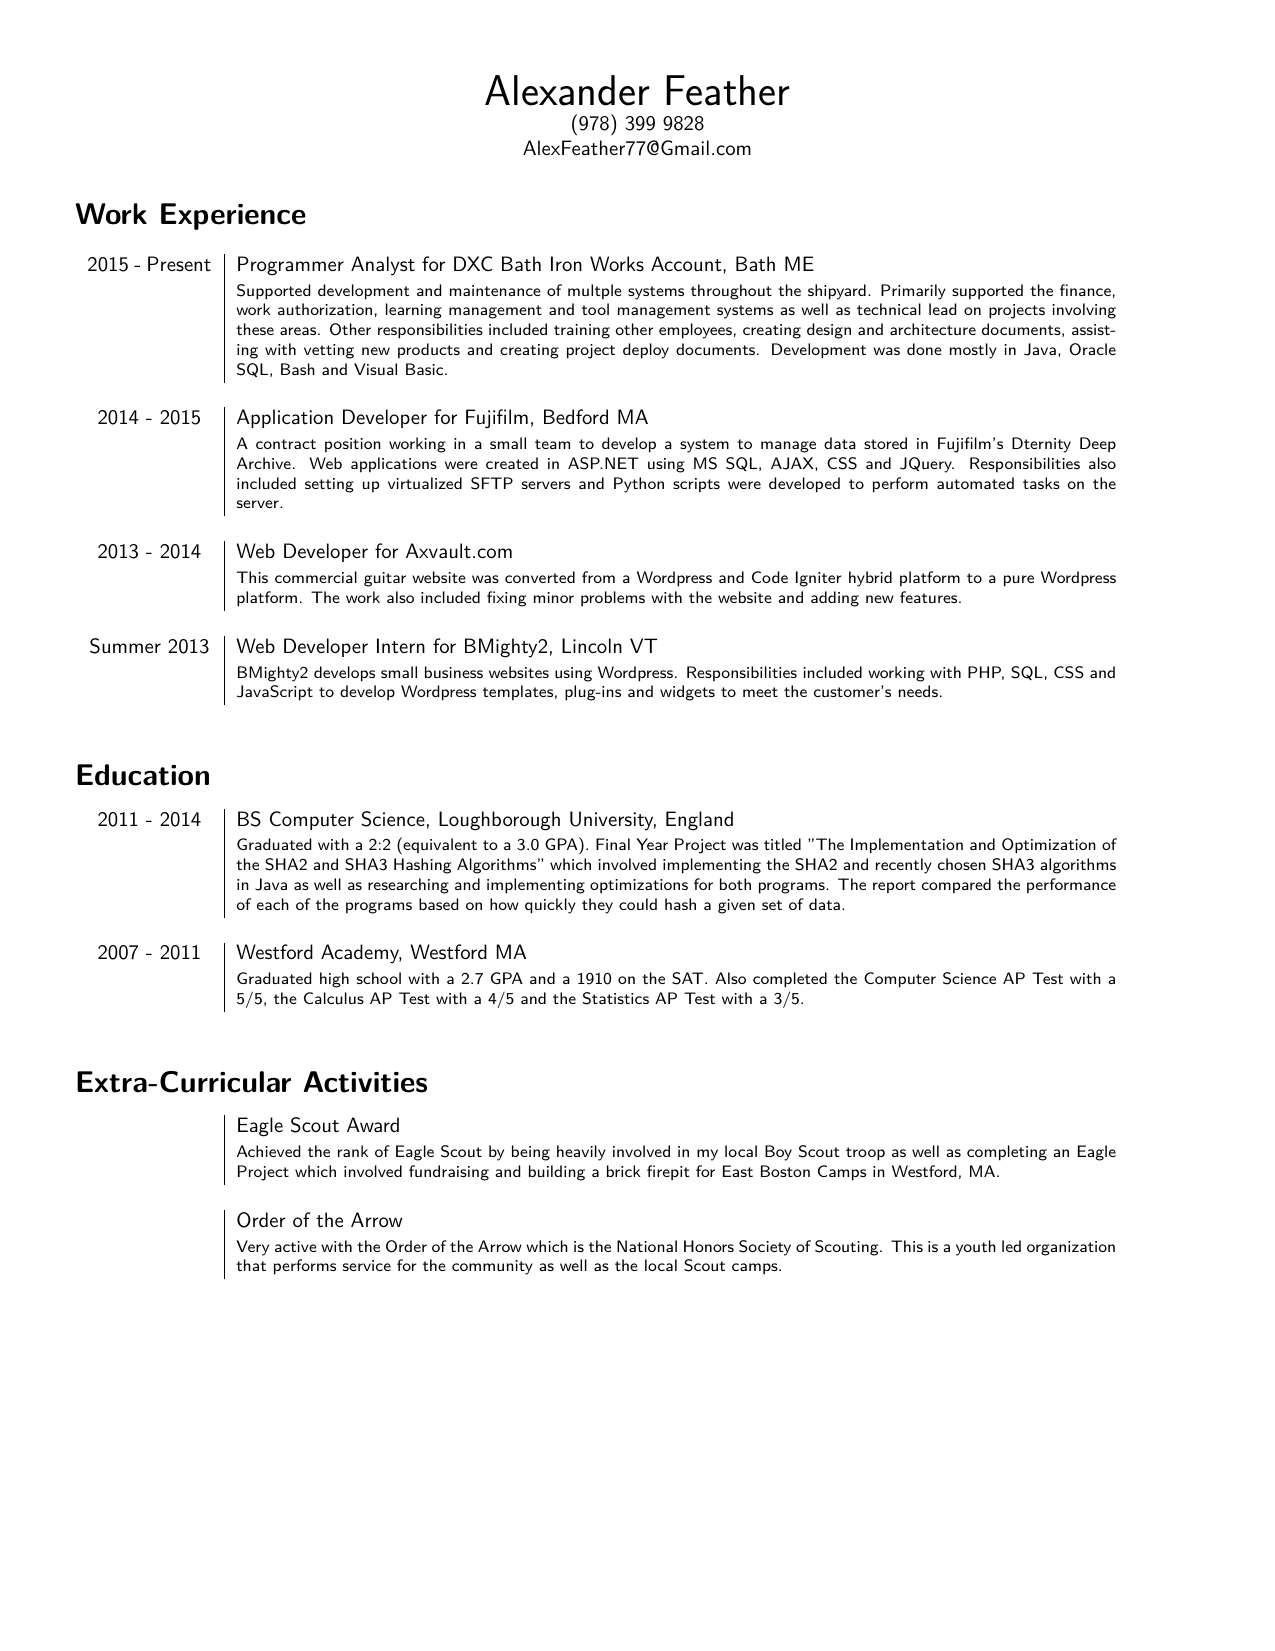
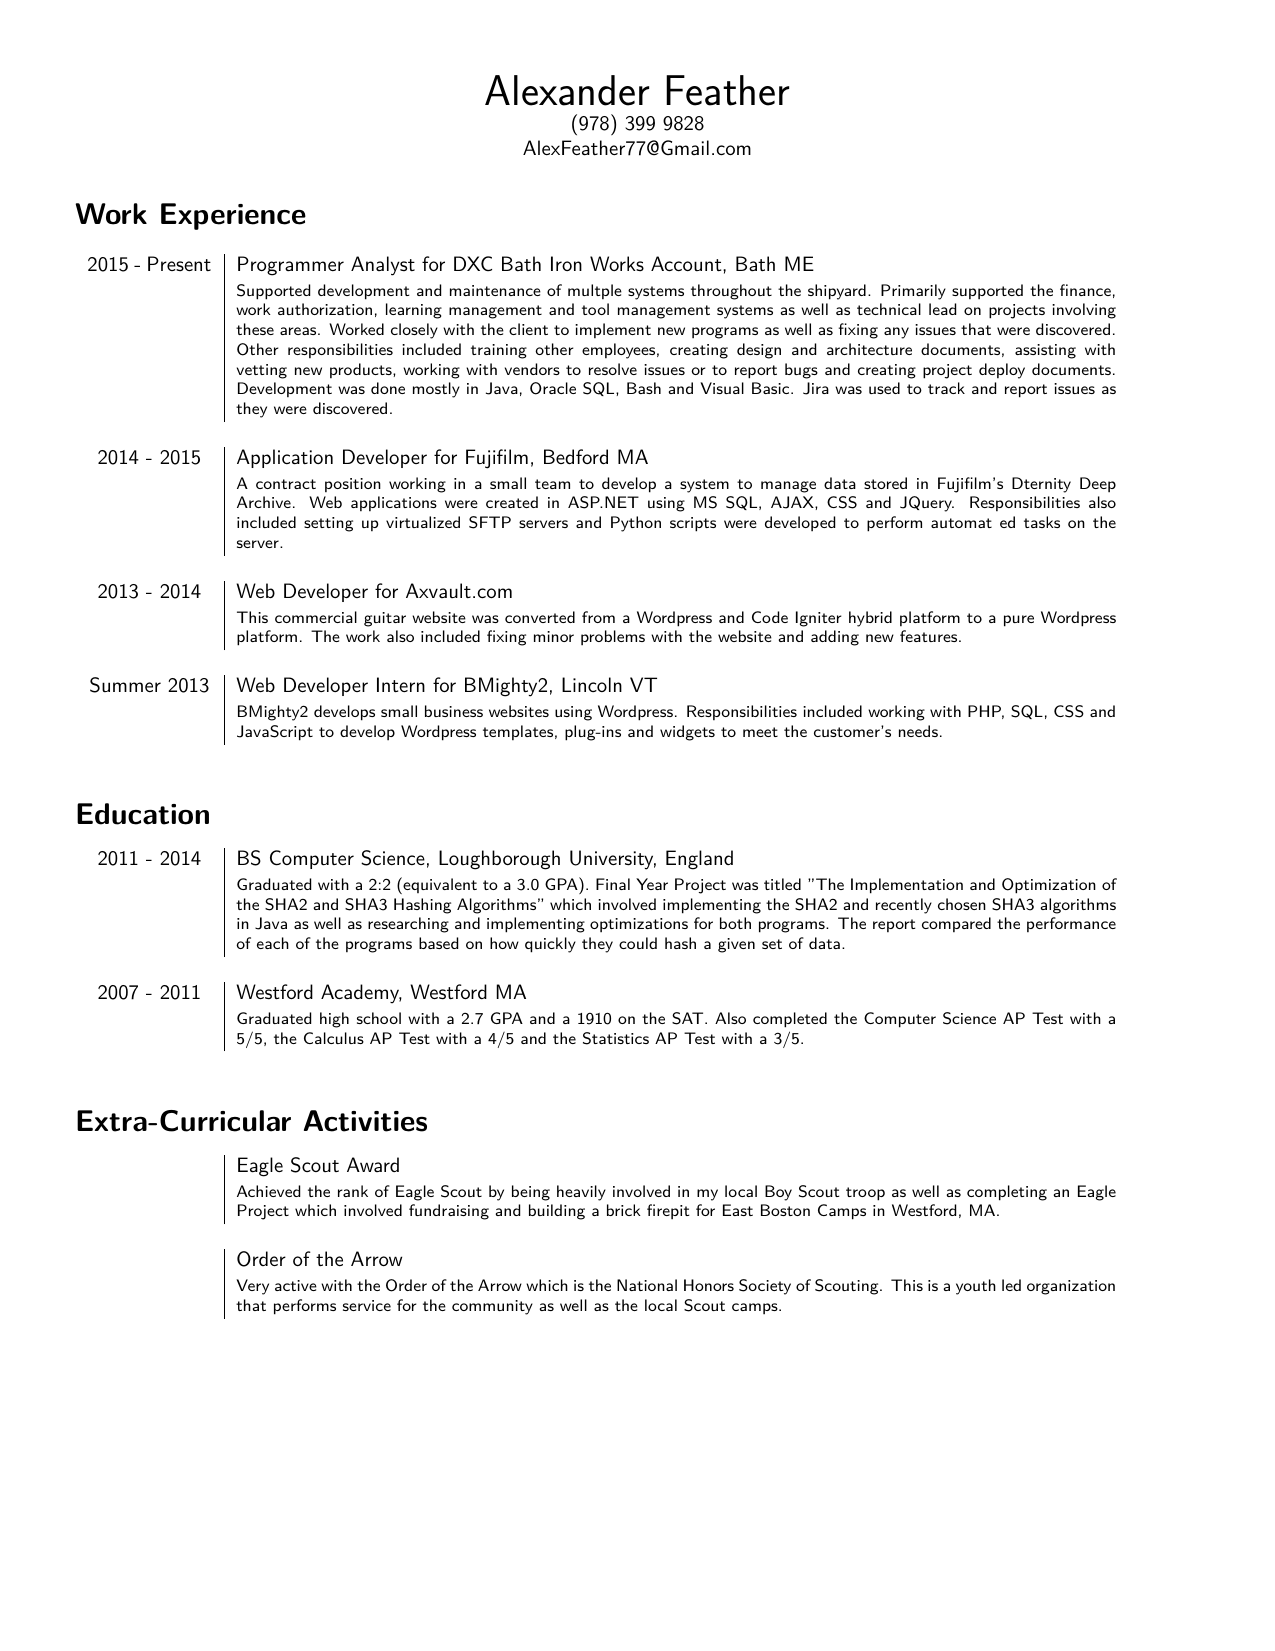
Updated Resume Files

diff --git a/Resume.tex b/Resume.tex
@@ -12,8 +12,8 @@
 
 \section*{\fontfamily{lmss}\selectfont Work Experience}
 \begin{tabular}{p{2.1cm}|p{14.9cm}}
-	2015 - Present & Programmer Analyst for DXC Bath Iron Works Account, Bath ME\\&\footnotesize{Supported development and maintenance of multple systems throughout the shipyard. Primarily supported the finance, work authorization, learning management and tool management systems as well as technical lead on projects involving these areas. Other responsibilities included training other employees, creating design and architecture documents, assisting with vetting new products and creating project deploy documents. Development was done mostly in Java, Oracle SQL, Bash and Visual Basic.}\\\multicolumn{2}{c}{} \\
-	\centering 2014 - 2015 & Application Developer for Fujifilm, Bedford MA\\&\footnotesize{A contract position working in a small team to develop a system to manage data stored in Fujifilm's Dternity Deep Archive. Web applications were created in ASP.NET using MS SQL, AJAX, CSS and JQuery. Responsibilities also included setting up virtualized SFTP servers and Python scripts were developed to perform automated tasks on the server.}\\\multicolumn{2}{c}{} \\
+	2015 - Present & Programmer Analyst for DXC Bath Iron Works Account, Bath ME\\&\footnotesize{Supported development and maintenance of multple systems throughout the shipyard. Primarily supported the finance, work authorization, learning management and tool management systems as well as technical lead on projects involving these areas. Worked closely with the client to implement new programs as well as fixing any issues that were discovered. Other responsibilities included training other employees, creating design and architecture documents, assisting with vetting new products, working with vendors to resolve issues or to report bugs and creating project deploy documents. Development was done mostly in Java, Oracle SQL, Bash and Visual Basic. Jira was used to track and report issues as they were discovered.}\\\multicolumn{2}{c}{} \\
+	\centering 2014 - 2015 & Application Developer for Fujifilm, Bedford MA\\&\footnotesize{A contract position working in a small team to develop a system to manage data stored in Fujifilm's Dternity Deep Archive. Web applications were created in ASP.NET using MS SQL, AJAX, CSS and JQuery. Responsibilities also included setting up virtualized SFTP servers and Python scripts were developed to perform automat 	ed tasks on the server.}\\\multicolumn{2}{c}{} \\
 	\centering 2013 - 2014 & Web Developer for Axvault.com\\&\footnotesize{This commercial guitar website was converted from a Wordpress and Code Igniter hybrid platform to a pure Wordpress platform. The work also included fixing minor problems with the website and adding new features.}\\\multicolumn{2}{c}{} \\
 	\centering Summer 2013 & Web Developer Intern for BMighty2, Lincoln VT\\&\footnotesize{BMighty2 develops small business websites using Wordpress. Responsibilities included working with PHP, SQL, CSS and JavaScript to develop Wordpress templates, plug-ins and widgets to meet the customer's needs.}\\\multicolumn{2}{c}{} \\
 \end{tabular}
